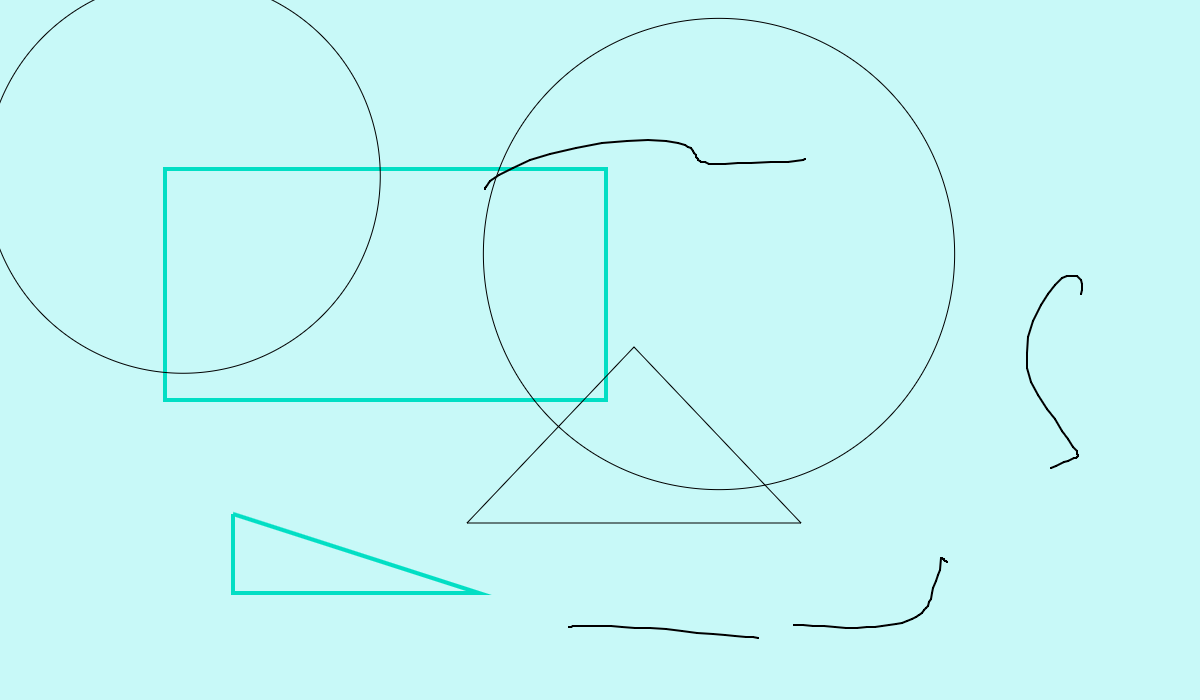
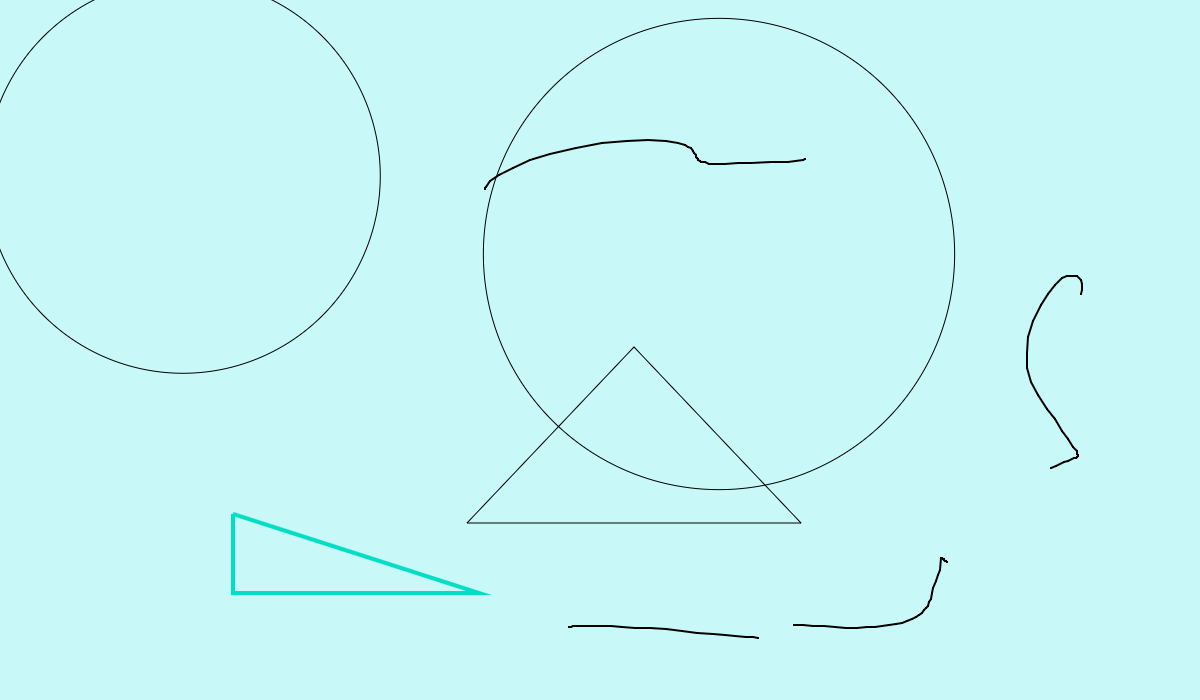
socket for remove Shape + fix sinhronize stupid bug

Changed region(s): [[0.1233, 0.24, 0.5242, 0.57], [0.1542, 0.57, 0.4933, 0.6]]

diff --git a/client/src/views/Project.vue b/client/src/views/Project.vue
@@ -274,6 +274,7 @@
 
 
             this.$socket.on('sinhronizeData', (data: any) => {
+                this.canvas.shapes = [];
                 this.canvas.copyData(JSON.parse(data.canvas));
                 this.canvas.renderAll();
             });
@@ -320,13 +321,24 @@
             this.$socket.on('changeCanvas', (data: any) => {
 
                 if(data.userId == this.$store.state.userIdentity!.id) return;
-
-                console.log(data, 'change');
                 
                 this.canvas.setBackground(data.color);
 
                 this.canvas.height = data.height;
                 this.canvas.width  = data.width;
+            });
+            
+
+            this.$socket.on('removeShape', (data: any) => {
+                if(data.userId == this.$store.state.userIdentity!.id) return;
+
+                this.canvas.removeShape(data.shapeId);
+                this.canvas.renderAll();
+
+                const menu = this.$refs.shapeMenu! as any;
+
+                if(menu == null) return; 
+                menu.close();
             });
         },
 
@@ -371,11 +383,17 @@
             },
 
             removeShape: function(id: number){
-                this.canvas.shapes = this.canvas.shapes.filter(item => item.id != id);
+                this.canvas.removeShape(id);
                 this.canvas.renderAll();
 
                 const menu = this.$refs.shapeMenu! as any;
                 menu.close();
+
+                this.$socket.emit('removeShape', {
+                    userId   : this.$store.state.userIdentity!.id,
+                    projectId: this.projectId,
+                    shapeId  : id,
+                });
             },
 
             fileOver: function(){

diff --git a/server/src/controllers/socketController.ts b/server/src/controllers/socketController.ts
@@ -231,6 +231,20 @@ export default class SocketContoller{
         });
     }
 
+
+    public static removeShape(socket: Socket){
+
+        interface Data{
+            shapeId  : number;
+            userId   : number;
+            projectId: number;
+        }
+
+        socket.on('removeShape', (data: Data) => {
+            this.io.sockets.to(`project${data.projectId}`).emit('removeShape', data);
+        });
+    }
+
     
     public static route(socket: Socket): void{
         SocketContoller.notification(socket);
@@ -244,5 +258,6 @@ export default class SocketContoller{
         SocketContoller.drawShape(socket);
         SocketContoller.sinhronizeData(socket);
         SocketContoller.changeCanvas(socket);
+        SocketContoller.removeShape(socket);
     }
 }

diff --git a/client/src/canvas/Canvas.ts b/client/src/canvas/Canvas.ts
@@ -154,6 +154,12 @@ export default class Canvas{
     }
 
 
+    public removeShape(id: number){
+        const ind: number = this.shapes.findIndex(item => id == item.id);
+        this.shapes.splice(ind, 1);
+    }
+
+
     public backStep(){
         this.shapes.pop();
         this.renderAll();
